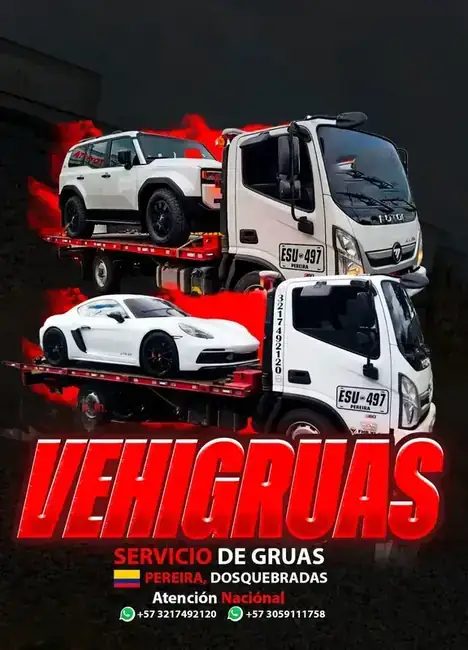
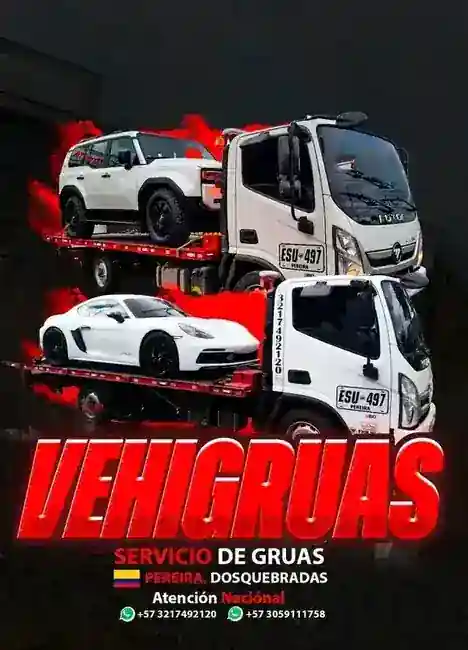
Add files via upload

diff --git a/optimize_images.py b/optimize_images.py
@@ -1,40 +1,23 @@
 import os
 from PIL import Image
 
-def resize_and_compress(path, max_size, quality=65):
+def compress_insanely(path, quality=20):
     try:
         with Image.open(path) as img:
-            # We want to aggressively downsize and compress to satisfy Lighthouse
-            if img.width > max_size or img.height > max_size:
-                img.thumbnail((max_size, max_size), Image.Resampling.LANCZOS)
-                
-            img.save(path, 'webp', quality=quality, method=6) # method=6 is the slowest but best compression
-            print(f"Crushed {path} to dimensions {img.width}x{img.height} at quality {quality}")
+            img.save(path, 'webp', quality=quality, method=6)
+            print(f"Insanely compressed {path} at quality {quality}")
     except Exception as e:
         print(f"Error processing {path}: {e}")
 
-images_650 = [
-    'Grua1.webp', 'Grua2.webp', 'Grua3.webp', 
-    'Grua4.webp', 'Grua5.webp', 'Grua6.webp', 
+images_to_crush = [
+    'Grua1.webp', 'Grua4.webp', 'Grua5.webp', 
+    'Grua2.webp', 'Grua3.webp', 'Grua6.webp', 
     'Varadoo.webp', 'Flyer VehiGruas.webp'
 ]
 
-# Banner needs to stay a bit wider for desktop hero, maybe 800px but lower quality
-images_800 = ['Banner VehiGruas.webp']
-
-images_150 = ['LogoVehi.webp', 'Fav.webp']
-
-print("Starting deep image compression...")
-for img in images_650:
+print("Starting INSANE image compression...")
+for img in images_to_crush:
     if os.path.exists(img):
-        resize_and_compress(img, 650, quality=65)
+        compress_insanely(img, quality=20)
 
-for img in images_800:
-    if os.path.exists(img):
-        resize_and_compress(img, 800, quality=65)
-
-for img in images_150:
-    if os.path.exists(img):
-        resize_and_compress(img, 150, quality=70)
-
-print("Finished deep compression.")
+print("Finished insane compression.")
